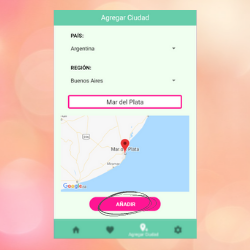
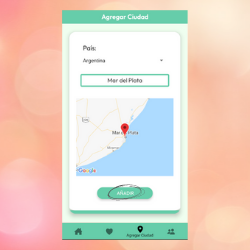
Cambio ímagenes del Home.js

Changed region(s): [[0.196, 0.028, 0.812, 0.98], [0.672, 0.168, 0.7, 0.196]]

diff --git a/App/screens/addCity/AddCity.js b/App/screens/addCity/AddCity.js
@@ -103,6 +103,7 @@ const AddCity = ({localizaciones, setLocalizacion, localizacionesGuardadas}) => 
 
     function eliminarTildes(texto) {
         return texto
+                .trim()
                .normalize('NFD')
                .replace(/([^n\u0300-\u036f]|n(?!\u0303(?![\u0300-\u036f])))[\u0300-\u036f]+/gi,"$1")
                .normalize();
@@ -199,9 +200,9 @@ const AddCity = ({localizaciones, setLocalizacion, localizacionesGuardadas}) => 
 
         <>
         <Header
-                        placement="center"
-                        backgroundColor= "mediumaquamarine"
-                        centerComponent={{ text: 'Agregar Ciudad', style: {fontFamily: 'Outfit-SemiBold', color: '#fff', fontSize:20 } }}
+            placement="center"
+            backgroundColor= "mediumaquamarine"
+            centerComponent={{ text: 'Agregar Ciudad', style: {fontFamily: 'Outfit-SemiBold', color: '#fff', fontSize:20 } }}
         />
         <ScrollView style={styles.container} >
         
@@ -350,7 +351,7 @@ const styles = StyleSheet.create({
     miniContainer:{
         backgroundColor: '#FFF',
         margin:25,
-        borderBottomColor: "darkseagreen",
+        borderBottomColor: "mediumaquamarine",
         borderStyle: 'solid',
         borderBottomWidth: 10,
         borderRadius:20,
@@ -368,7 +369,7 @@ const styles = StyleSheet.create({
     miniContainer2:{
         backgroundColor: '#FFF',
         margin:25,
-        borderBottomColor: "darkseagreen",
+        borderBottomColor: "mediumaquamarine",
         borderStyle: 'solid',
         borderBottomWidth: 10,
         paddingBottom:30,
@@ -399,7 +400,7 @@ const styles = StyleSheet.create({
         marginBottom: 5,
         marginTop:15,
         textAlign: 'center',
-        borderColor:"darkseagreen",
+        borderColor:"mediumaquamarine",
         borderWidth:4,
         marginHorizontal: '10%',
         borderRadius: 5,
@@ -409,7 +410,7 @@ const styles = StyleSheet.create({
     btnBuscar: {
      
         marginTop: 30,
-        backgroundColor: "darkseagreen",
+        backgroundColor: "mediumaquamarine",
         padding: 10,
         justifyContent: 'center',
         borderRadius: 50,
@@ -427,7 +428,7 @@ const styles = StyleSheet.create({
     },
     btnAgregar:{
         marginVertical: 35,
-        backgroundColor: "darkseagreen",
+        backgroundColor: "mediumaquamarine",
         padding: 10,
         justifyContent: 'center',
         borderRadius: 50,

diff --git a/App/components/city/City.js b/App/components/city/City.js
@@ -31,7 +31,7 @@ const City = ({item, eliminarCiudad}) => {
         const consultarClima = async () => {
           if(consultar) {
            
-            const appId = '20a8b2301f4640e37946ef27389183d7'; 
+            const appId = '0a13d3882976ae0a443b7bb719fcdd1a'; 
             const url = `http://api.openweathermap.org/data/2.5/weather?q=${item.ciudad},${item.pais}&appid=${appId}`;
            
             

diff --git a/App/components/Map.js b/App/components/Map.js
@@ -15,7 +15,7 @@ const Map = ({ciudad, pais, cerrarMap}) => {
       useEffect(() => {
         const consultarCoord = async () => {
 
-            const appId2 = '20a8b2301f4640e37946ef27389183d7'; 
+            const appId2 = '0a13d3882976ae0a443b7bb719fcdd1a'; 
             const url2 = `http://api.openweathermap.org/data/2.5/weather?q=${ciudad},${pais}&appid=${appId2}`;
 
              try {

diff --git a/App.js b/App.js
@@ -75,9 +75,12 @@ export default function App() {
   }else{
     return (
       <>
+      <StatusBar style="dark" backgroundColor= "#FFF" />
       {mostrar 
       ? 
-      (<Welcome/> )
+      (
+      <Welcome/> )
+      
       : (
       <GestureHandlerRootView style={{flex: 1}}>
         <NavigationContainer>
